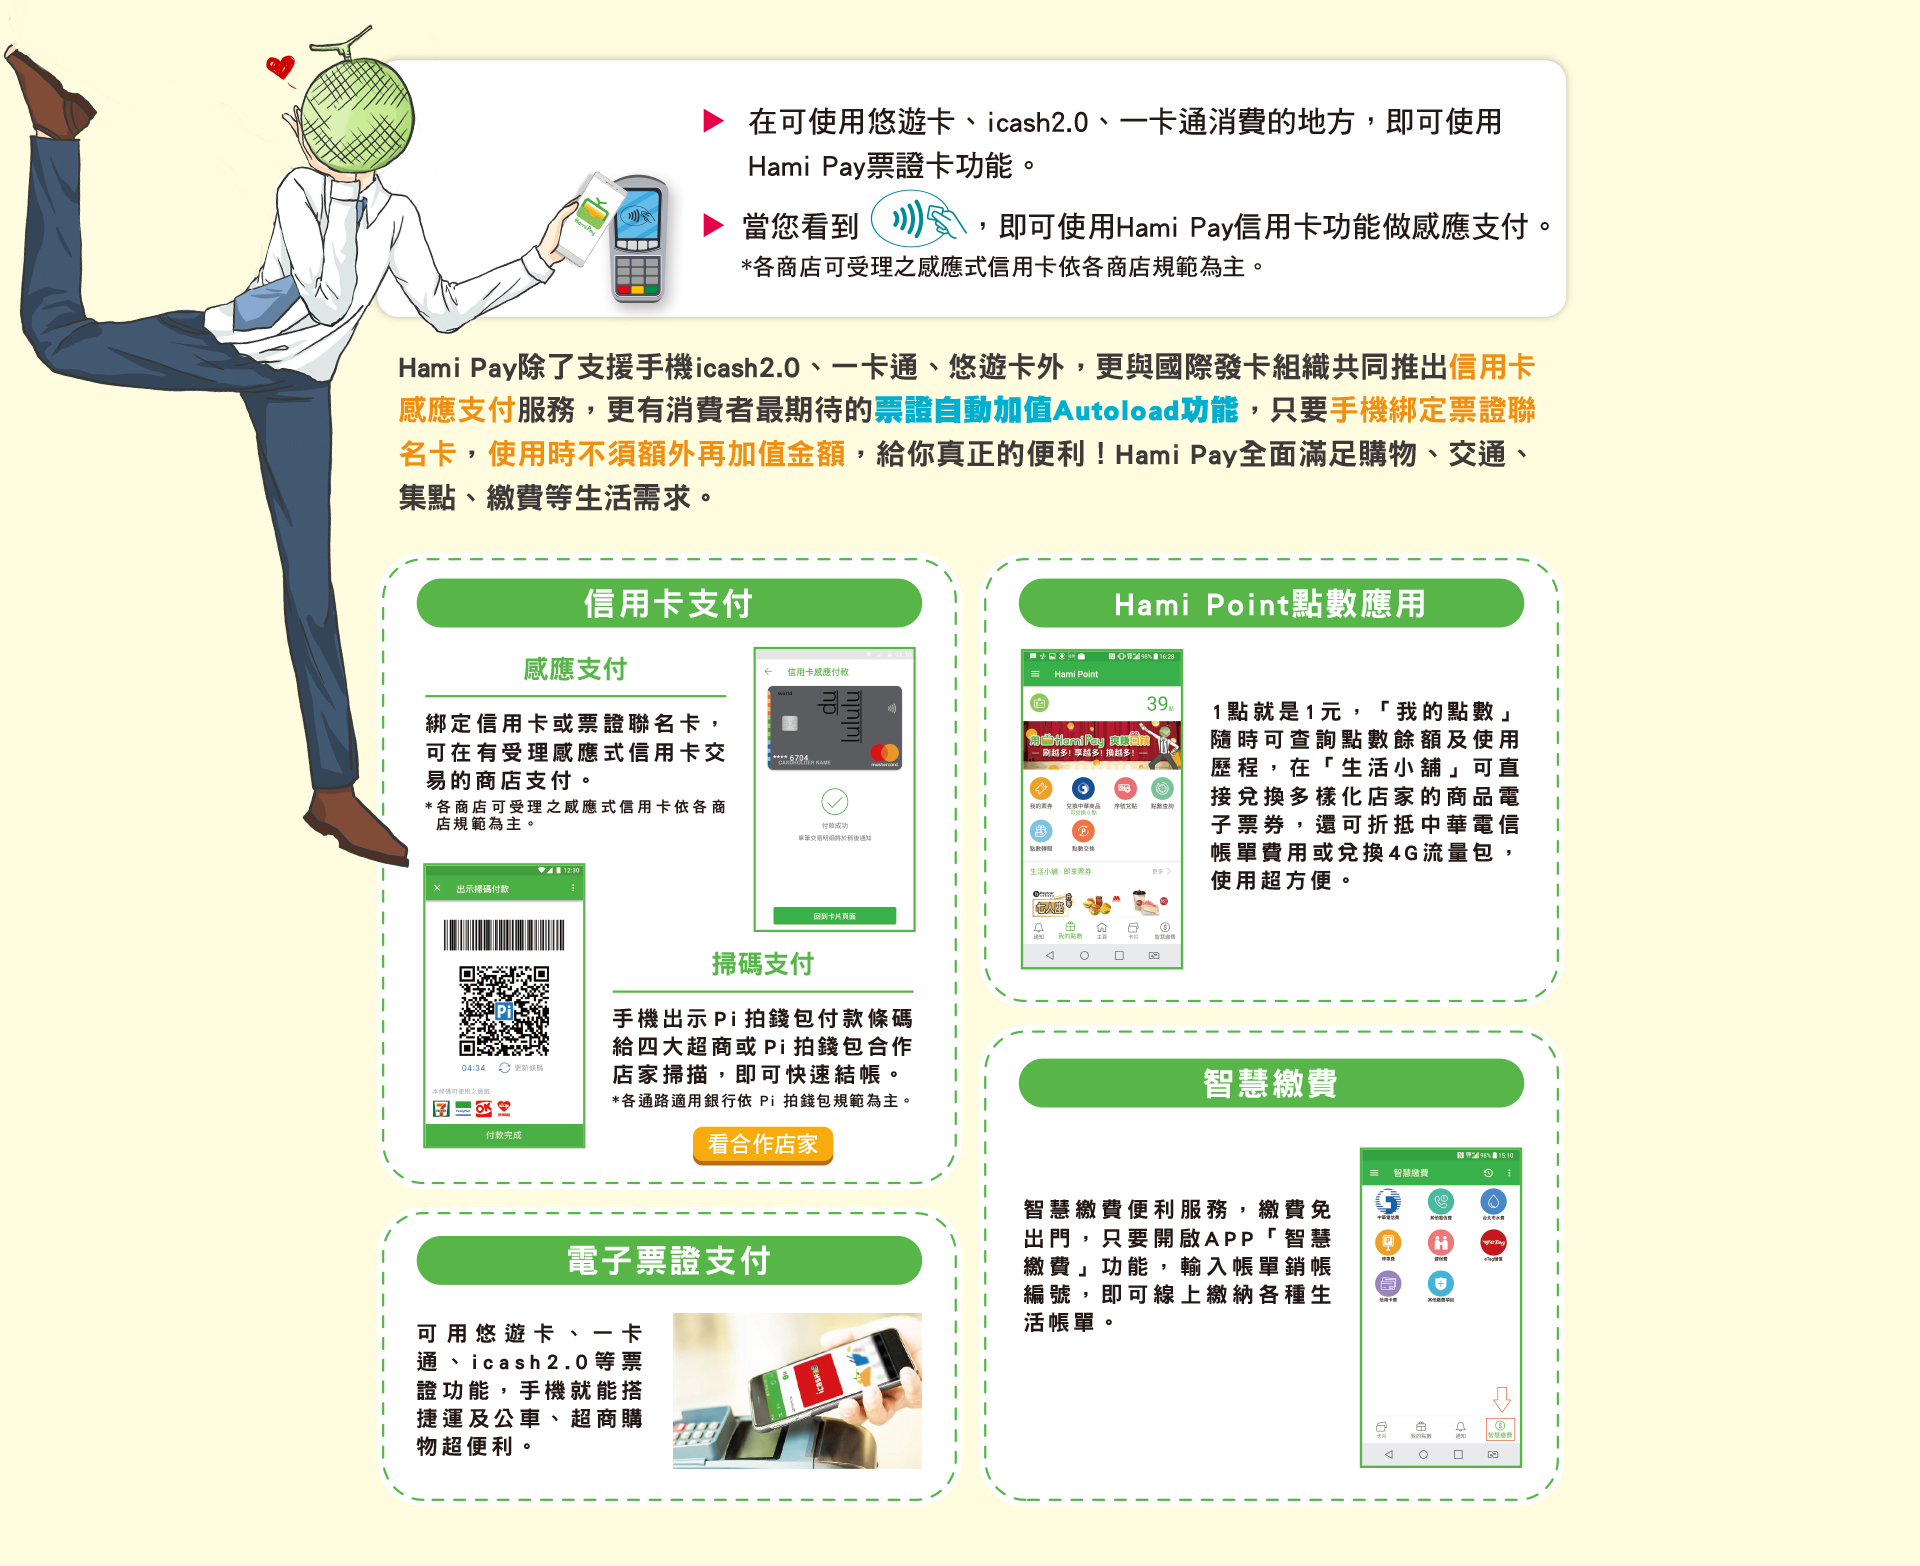
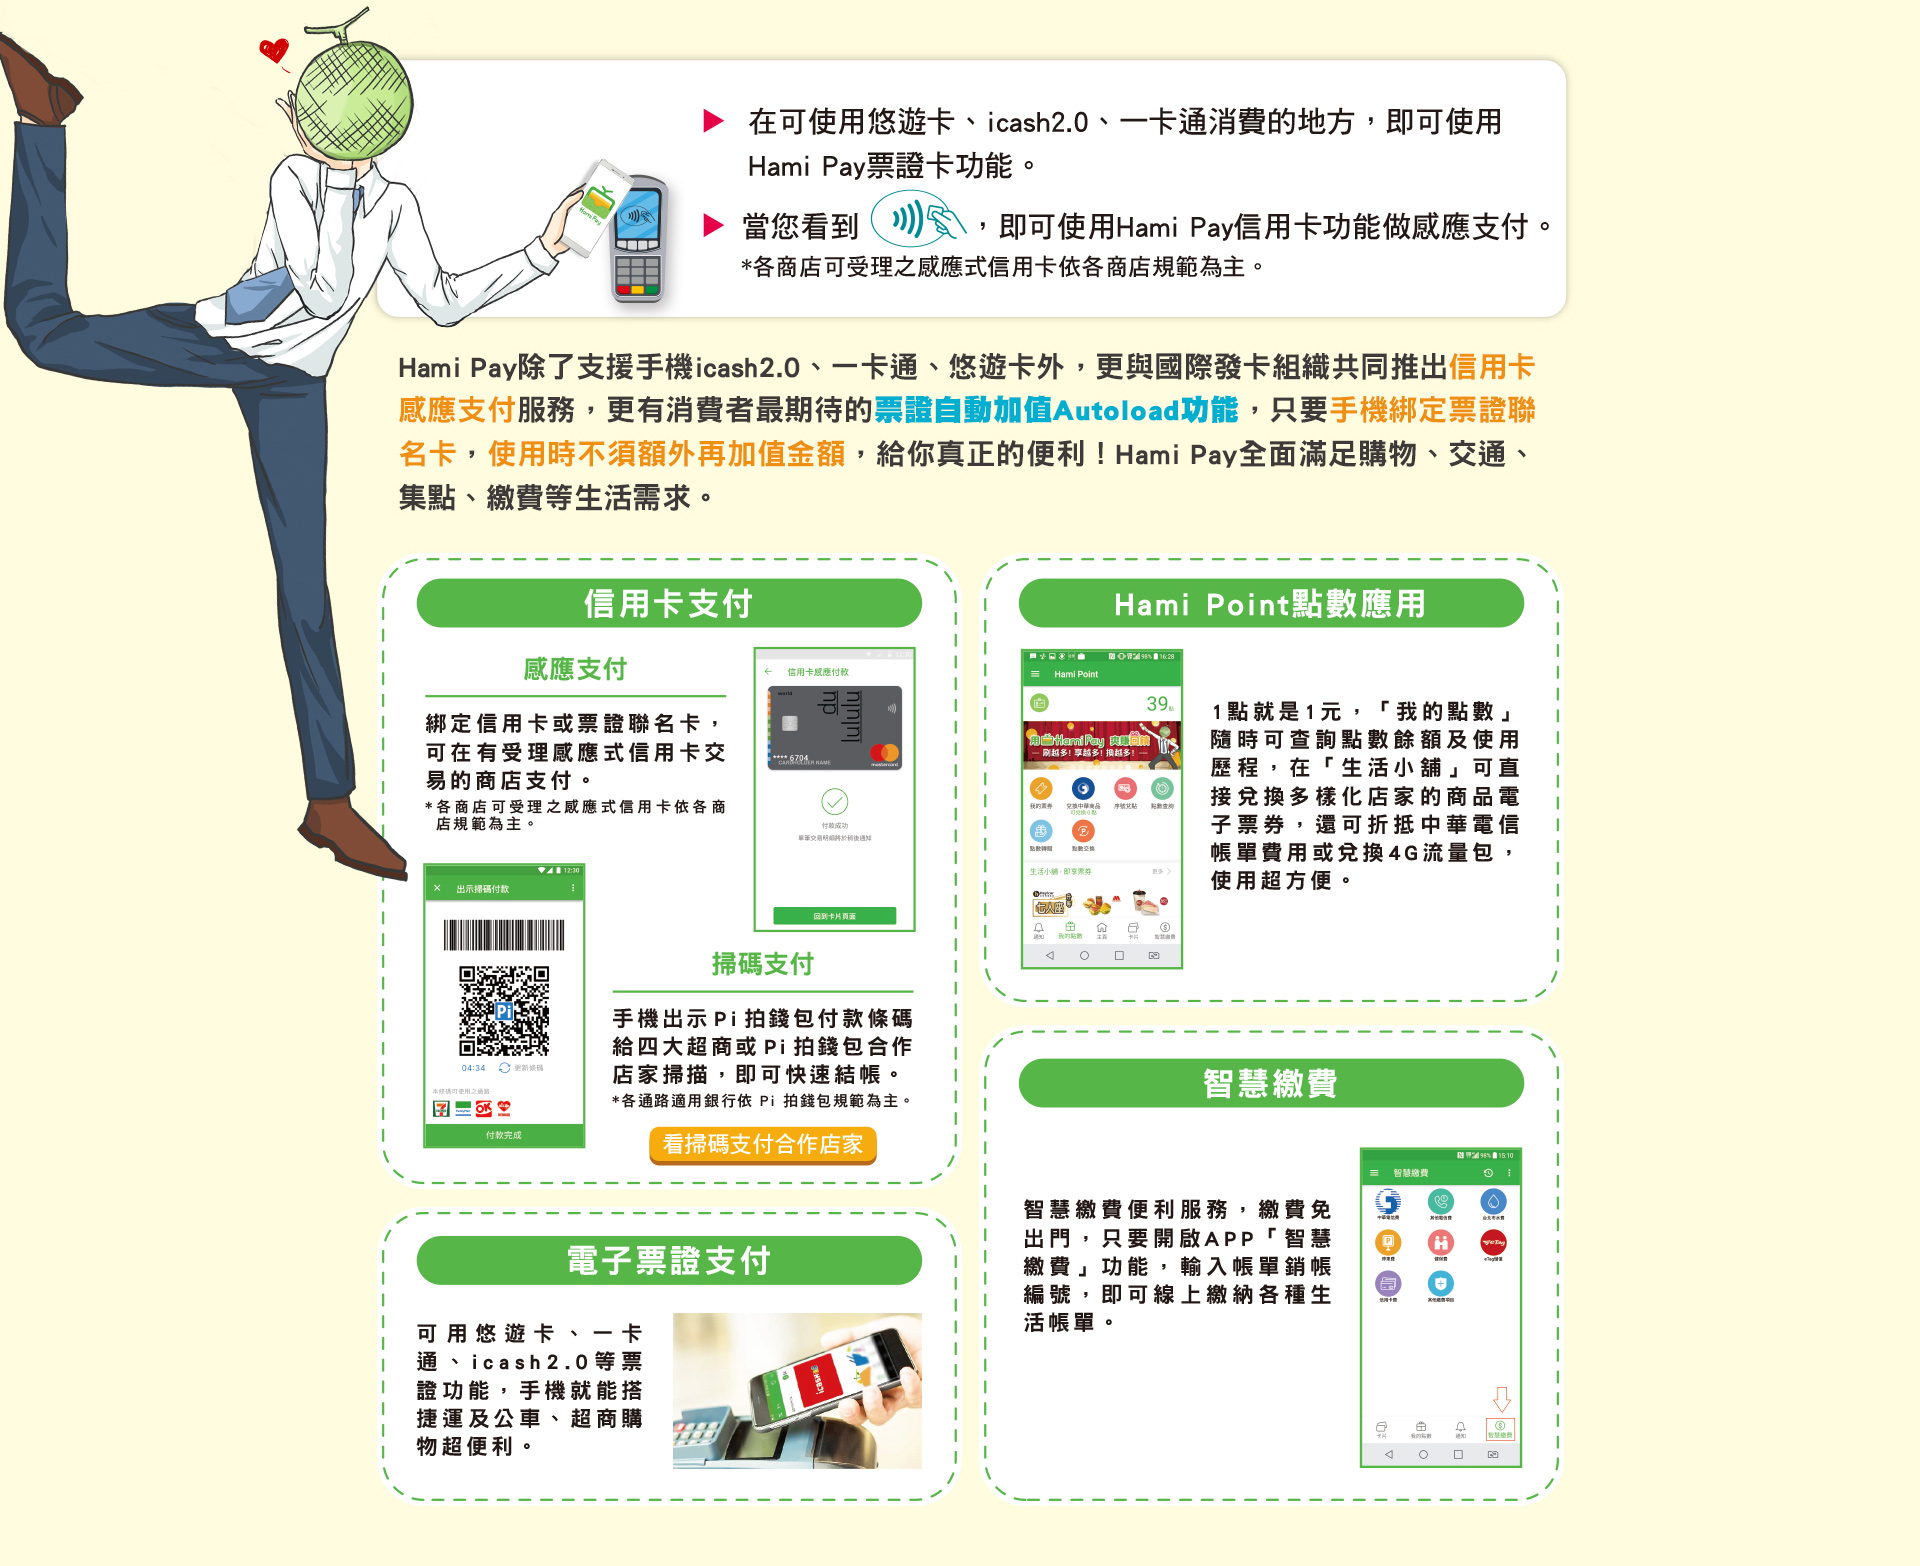
Hamioay
更新內容 PC版本

Changed region(s): [[0.0, 0.0, 0.3438, 0.5824], [0.3438, 0.705, 0.4688, 0.7663], [0.5, 0.2452, 0.5312, 0.2759]]

diff --git a/demo/HamiPay/index.html b/demo/HamiPay/index.html
@@ -59,13 +59,13 @@ gtag('config', 'UA-112390676-5');
   // ...
 });
 </script>-->
-<script async src="https://www.googletagmanager.com/gtag/js?id=UA-137034355-1"></script>
+<script async src="https://www.googletagmanager.com/gtag/js?id=UA-112390676-5"></script>
 <script>
   window.dataLayer = window.dataLayer || [];
   function gtag(){dataLayer.push(arguments);}
   gtag('js', new Date());
 
-  gtag('config', 'UA-137034355-1');
+  gtag('config', 'UA-112390676-5');
   gtag('event', 'Landing', {
   // Event parameters
   'event_category': 'Landing',
@@ -111,11 +111,12 @@ gtag('config', 'UA-112390676-5');
 			<img src="images/title_02.jpg" />
 			<img src="images/section_02.jpg" usemap="#image-map">
 			<map name="image-map">
-			    <area onclick="gtag('event', 'click ',{'event_category':'Landing','event_label': 'Sale-CTBC'  });" href="https://www.ctbcbank.com/CTCBPortalWeb/toPage?id=TW_RB_MK_creditcard_055001" coords="618,897,761,943" shape="rect">
-			    <area onclick="gtag('event', 'click ',{'event_category':'Landing','event_label': 'Sale-Pi'  });" href="https://www.piapp.com.tw/faq/pipoint-partners" coords="1147,843,1366,891" shape="rect">
-				<area onclick="gtag('event', 'click ',{'event_category':'Landing','event_label': 'special_offers_2'  });" href="https://event.hamipoint.cht.com.tw/store/?utm_source=hpay&utm_medium=actweb&utm_campaign=chtstore" coords="886,1917,1054,1956" shape="rect">
+			    <area onclick="gtag('event', 'click ',{'event_category':'Landing','event_label': 'Sale-CTBC'  });" href="https://www.ctbcbank.com/twrbo/zh_tw/onlinecounter_index/cc_service/cc_service_register/cc_service_register_activity.html;jsessionid=lCu_pzJvweGx6wZ4EQl2jpdSiycVUw8deSPHhPHuIHRasszCnMg3!-282823821?id=TW_RB_MK_creditcard_055001&zf0StZ=c6CxcAqXhPgXhPgXhPLxxJELcFWQBJ8h3xX7coqBaVlX" coords="846,1082,1090,1153" shape="rect">
+			    <area onclick="gtag('event', 'click ',{'event_category':'Landing','event_label': 'Sale-Pi'  });" href="https://www.piapp.com.tw/faq/pipoint-partners" coords="701,1917,1229,1983" shape="rect">
+				<area onclick="gtag('event', 'click ',{'event_category':'Landing','event_label': 'special_offers_2'  });" href="https://event.hamipoint.cht.com.tw/store/?utm_source=hpay&utm_medium=actweb&utm_campaign=chtstore" coords="837,3069,1103,3135" shape="rect">
 			</map>
 			<img id="bonus" src="images/section_02-1.jpg" >
+			<img id="bonus" src="images/section_02-2.jpg" >
 
 		</div>
 		<div class="title">
@@ -127,7 +128,7 @@ gtag('config', 'UA-112390676-5');
 			<img src="images/section_01-1.jpg" usemap="#image-map00">
 
 		<map name="image-map00">
-		    <area onclick="gtag('event', 'click ',{'event_category':'Landing','event_label': 'Pi Store'  });" href="https://www.piapp.com.tw/faq/pipoint-partners" coords="691,1127,830,1162" shape="rect">
+		    <area onclick="gtag('event', 'click ',{'event_category':'Landing','event_label': 'Pi Store'  });" href="https://www.piapp.com.tw/faq/pipoint-partners" coords="649,1127,878,1167" shape="rect">
 		</map>
 		</div>
 		<!--

diff --git a/demo/HamiPay/index_m.html b/demo/HamiPay/index_m.html
@@ -27,13 +27,13 @@
 	/**/
 </script>
 <!-- GA -->
-<script async src="https://www.googletagmanager.com/gtag/js?id=UA-137034355-1"></script>
+<script async src="https://www.googletagmanager.com/gtag/js?id=UA-112390676-5"></script>
 <script>
   window.dataLayer = window.dataLayer || [];
   function gtag(){dataLayer.push(arguments);}
   gtag('js', new Date());
 
-  gtag('config', 'UA-137034355-1');
+  gtag('config', 'UA-112390676-5');
   gtag('event', 'Landing', {
   // Event parameters
   'event_category': 'Landing',
